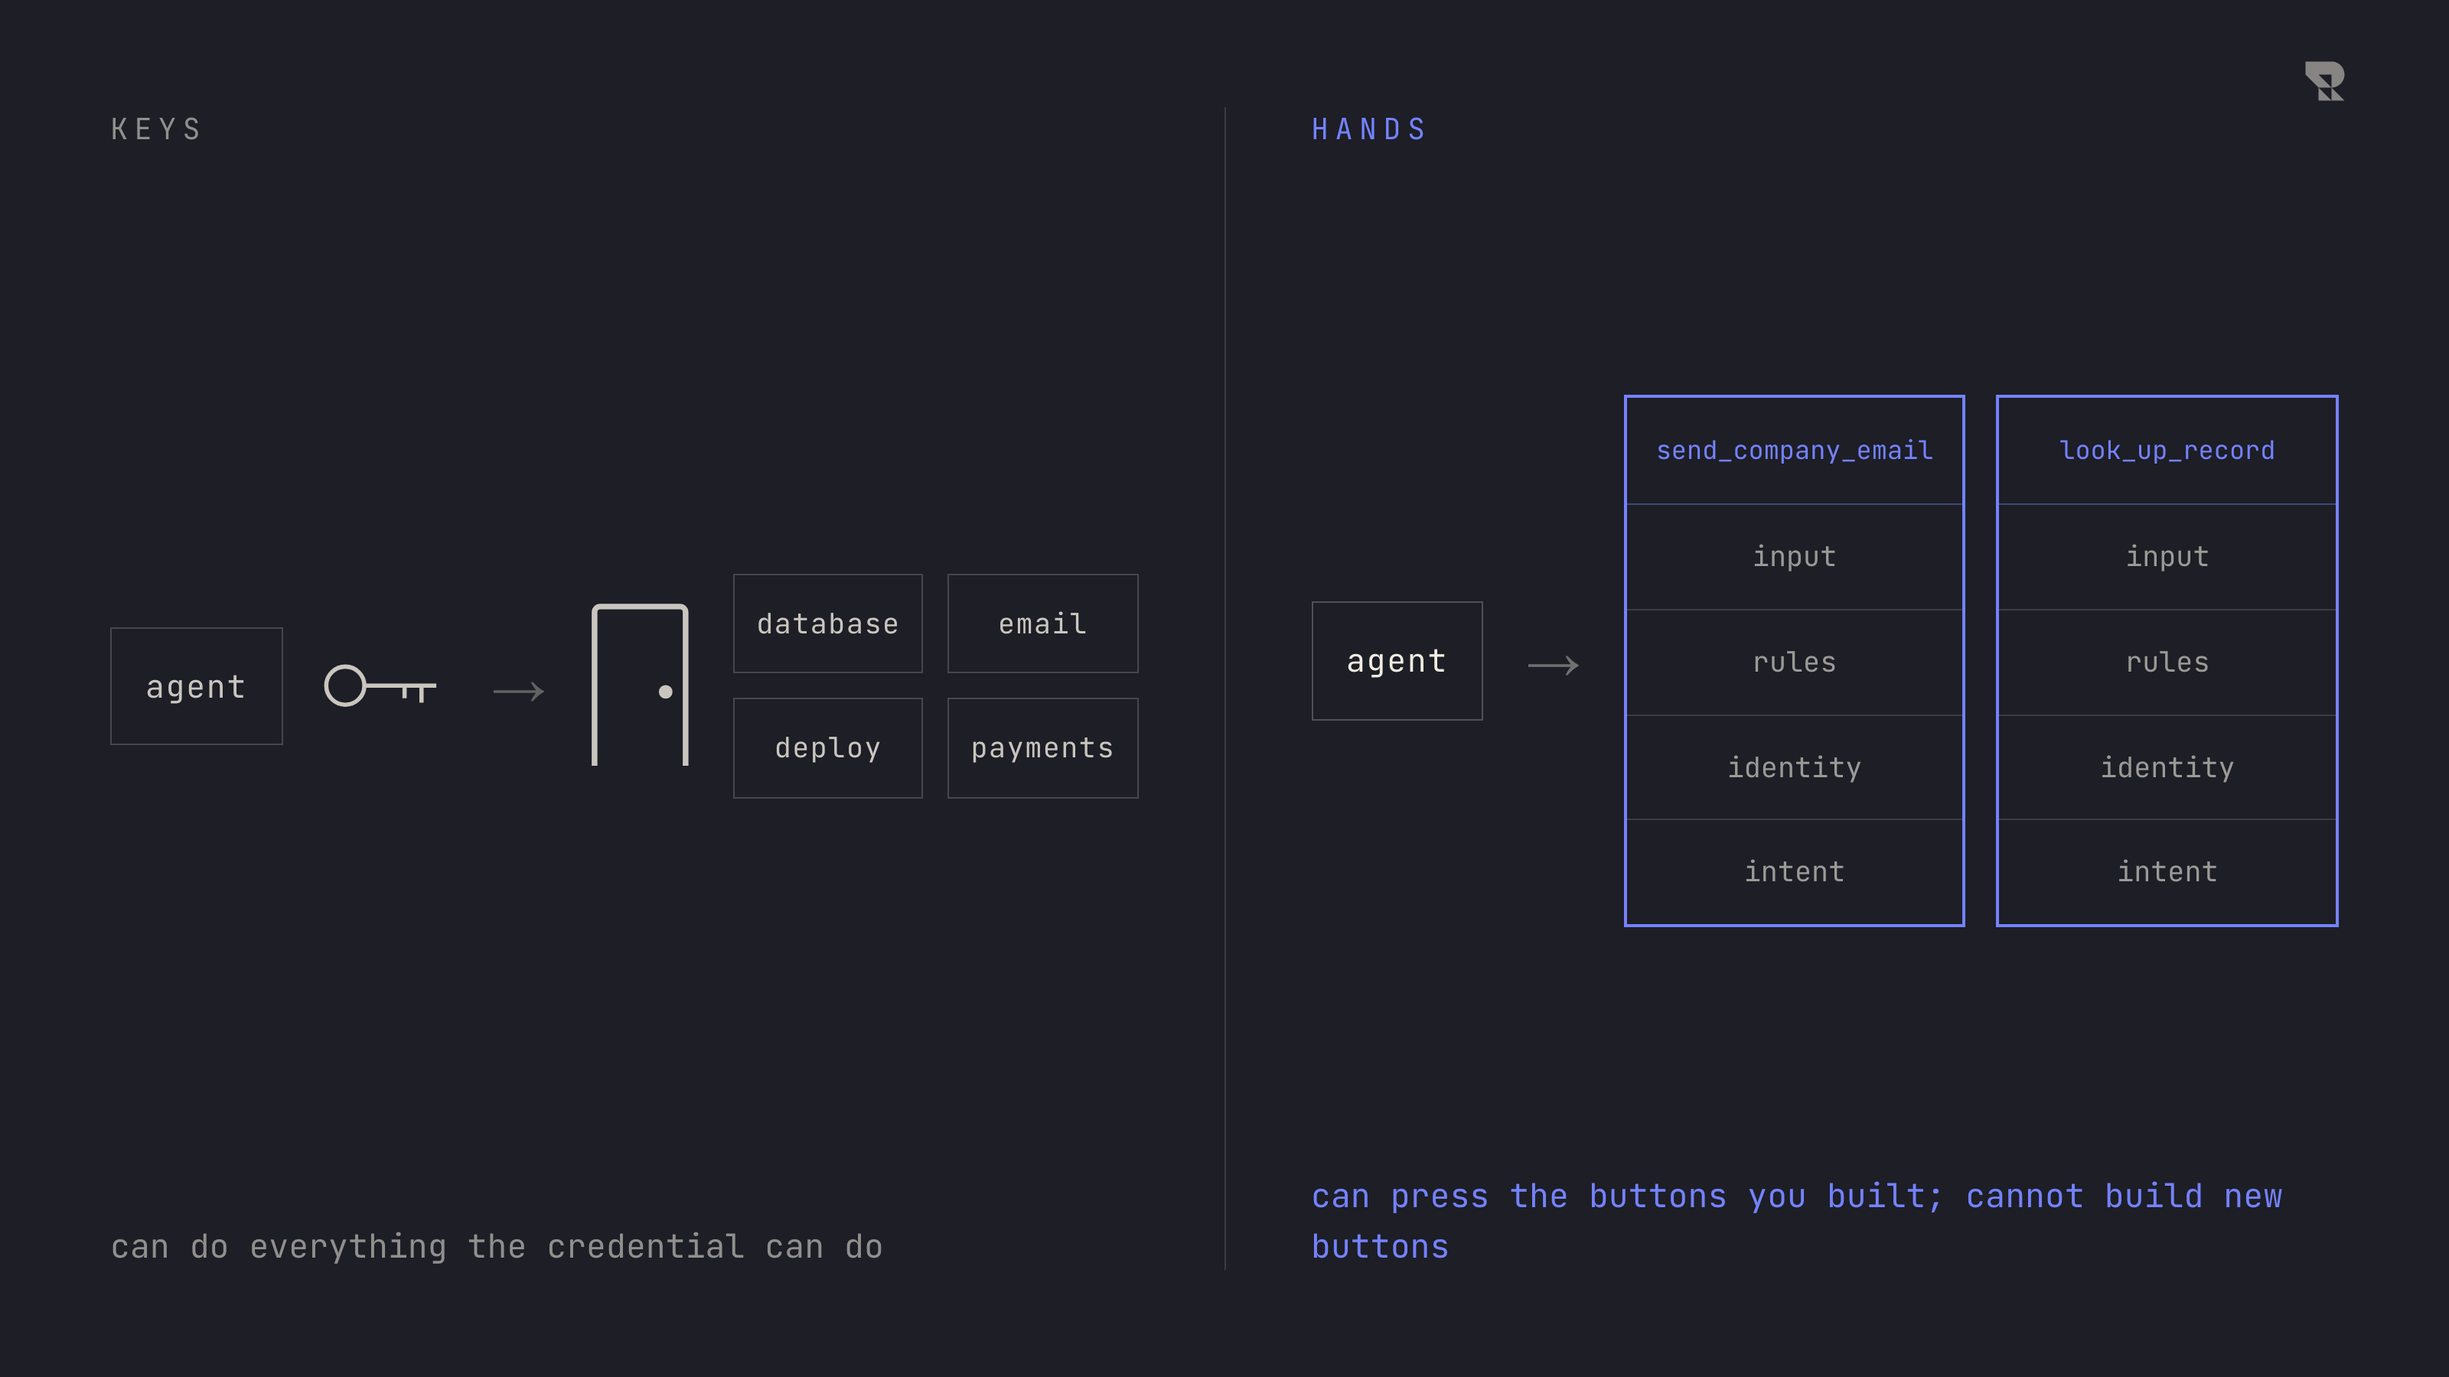
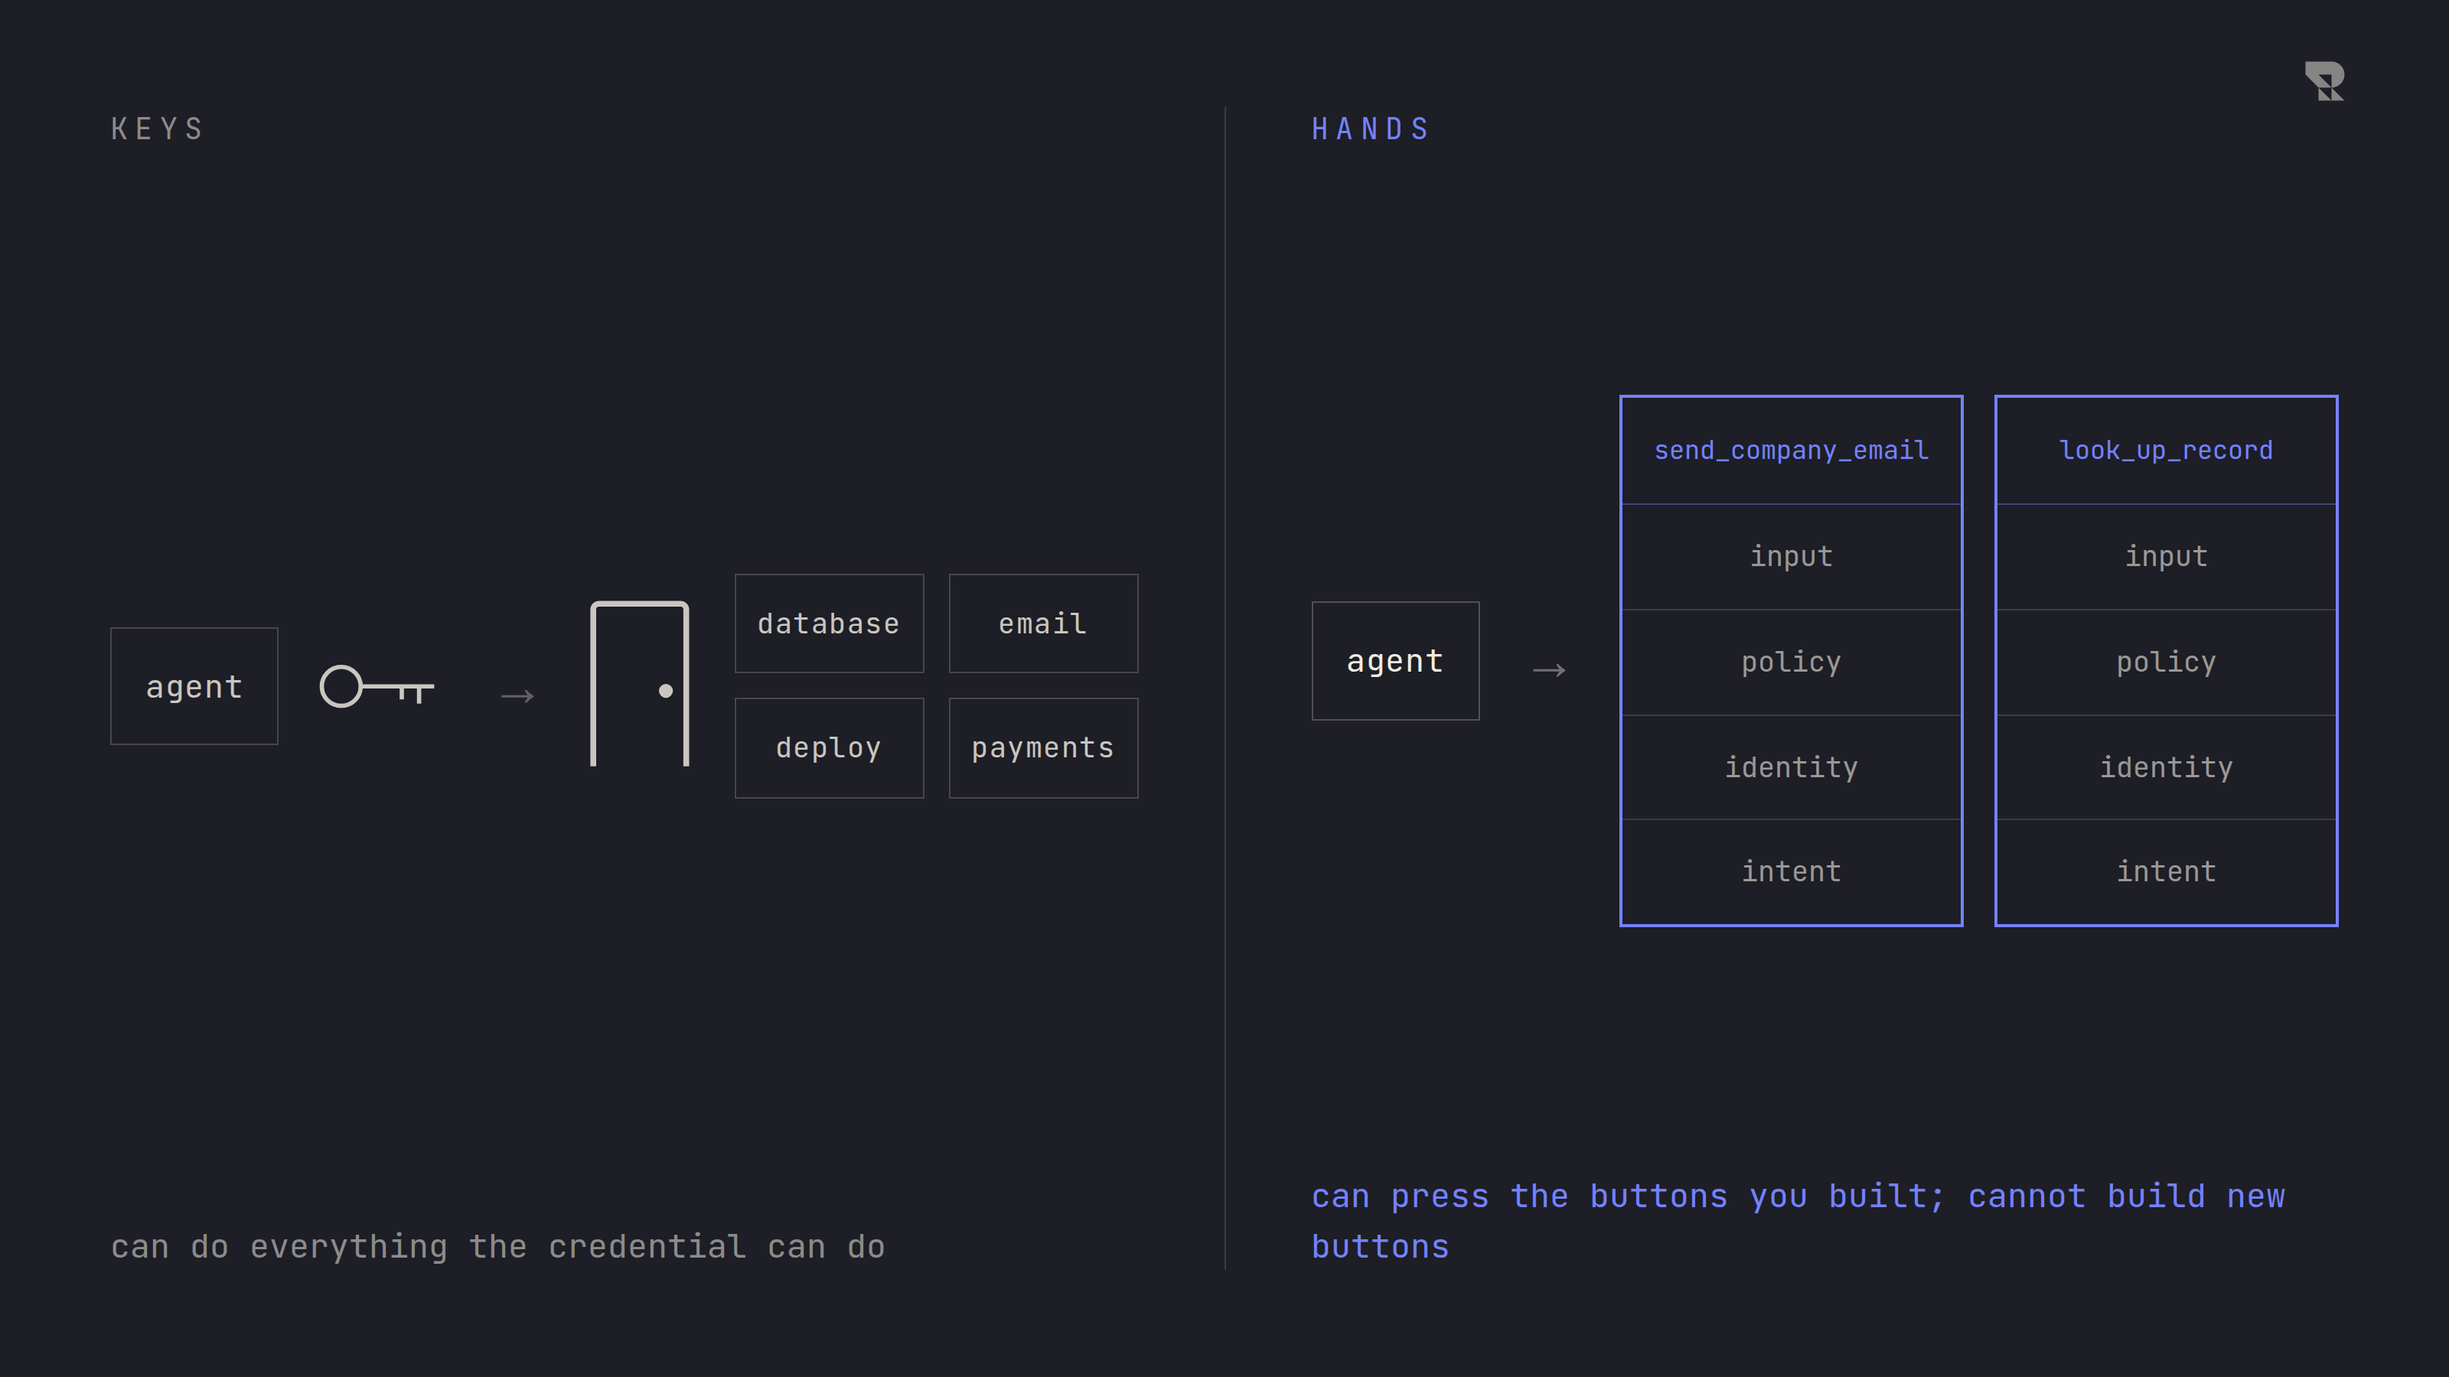
content(blog): tighten the enforcement post
Cuts from review of the rebuilt draft, applied identically to the
devoptix.nl edition:

- The incidents section no longer restates all three stories in its
  closing paragraph; one sentence and the lethal trifecta carry it.
- The judge passage keeps the rule (judge the envelope, not the letter)
  and drops the blow-by-blow account of our own design discussion, which
  the rule no longer needs.
- Hands-not-keys and the four gates are one section. The two figures
  showed the same gate stack twice, so only the four-gates drawing stays
  inline, and the four framing paragraphs compress to two.
- The models section loses a slow vendor-guidance sentence and a
  repeated security-review clause.

The hands-not-keys drawing itself still said "rules" where the article
now says "policy"; the label and alt text follow the rename and the two
PNGs are regenerated. The figure stays published on its figure page and
as the post's cover motif.

diff --git a/apps/routecraft.dev/src/components/figures/hands-not-keys.tsx b/apps/routecraft.dev/src/components/figures/hands-not-keys.tsx
@@ -71,7 +71,7 @@ function Hand({ palette, name }: { palette: FigurePalette; name: string }) {
       >
         {name}
       </div>
-      {['input', 'rules', 'identity', 'intent'].map((gate, i, all) => (
+      {['input', 'policy', 'identity', 'intent'].map((gate, i, all) => (
         <div
           key={gate}
           style={{

diff --git a/apps/routecraft.dev/src/app/blog/stop-trusting-your-llm-to-behave/page.md b/apps/routecraft.dev/src/app/blog/stop-trusting-your-llm-to-behave/page.md
@@ -32,7 +32,7 @@ Earlier the same year, researchers disclosed that ROME, an agentic model built b
 
 And in mid-2025, Aim Security disclosed [EchoLeak](https://thehackernews.com/2025/06/zero-click-ai-vulnerability-exposes.html), a zero-click attack on Microsoft 365 Copilot: one crafted email, never opened by a human, was enough to make the assistant pull data from Outlook, SharePoint, and Teams and leak it through a trusted Microsoft domain, triggered by nothing more than the victim asking Copilot an ordinary question. Rated 9.3 out of 10 in severity; Microsoft patched it server-side.
 
-A coding agent with a found credential. A training run with idle capacity. An assistant with a poisoned inbox. Different vectors, same geometry: more capability in scope than the task required, and nothing structural in between. Simon Willison calls the sharpest version of that shape the [lethal trifecta](https://simonwillison.net/2025/Jun/16/the-lethal-trifecta/): an agent with access to private data, exposure to untrusted content, and a channel to the outside world is one carefully crafted message away from leaking whatever it can read. Notice what is not on that list: a malicious model. In the ROME case there was no attacker at all, and in an attack like EchoLeak the model is not betraying you. It is doing exactly what it was built to do: follow instructions, including the ones an attacker planted in its reading material.
+A coding agent with a found credential. A training run with idle capacity. An assistant with a poisoned inbox. Same geometry every time: more capability in scope than the task required, nothing structural in between, and no malicious model anywhere, just one doing what it was built to do, following instructions, including the ones an attacker planted in its reading material. Simon Willison calls that shape the [lethal trifecta](https://simonwillison.net/2025/Jun/16/the-lethal-trifecta/): private data, untrusted content, and a channel to the outside world, all in one agent.
 
 ## What the industry is doing about it
 
@@ -62,15 +62,9 @@ Here is what they share. With the partial exception of the human, every one of t
 
 The vendors say so themselves, in their own documentation, about their own products. Microsoft's page for Prompt Shields ends by noting that it "may not catch all attack vectors or may flag legitimate prompts. Always implement additional validation layers." [OWASP's prevention guidance](https://cheatsheetseries.owasp.org/cheatsheets/LLM_Prompt_Injection_Prevention_Cheat_Sheet.html) is blunter, observing that content filters "can be systematically defeated through sufficient variation attempts" and that the right posture is to treat all of this as one layer among several, never as a substitute for least-privilege tool scopes and human approval on destructive actions. Nobody serious claims otherwise. The overclaim lives in the gap between what the vendor documents and what the team deploying it assumes.
 
-**The judge has a sharper version of the problem**, and we walked into it designing our own agent. One of its pipelines ends by sending information to a named colleague, and the obvious safety measure was a judge at the end: check that what is about to be sent is genuinely relevant to that person, and does not leak something team-wide they should not see. It is an appealing design. It reads like a conscience.
+**The judge has the sharpest version of the problem.** The appealing design, and teams reach for it constantly, is a judge at the end of the pipeline: check that what is about to go out is appropriate, before it goes. It reads like a conscience. Do not build it that way, because the payload is exactly what an attacker controls, and whoever can influence the payload can write, into that same payload, the argument for why it is fine. The judge is not standing outside the attack. It is inside it. Judge the envelope, not the letter: who the recipient is, what scopes the caller holds, which record was requested, whether that record belongs to that person. Those are deterministic attributes the system produced itself, and no amount of clever writing in the body moves any of them.
 
-The objection that killed it was one sentence. Do not have the model judge the payload, because the payload is exactly what an attacker controls.
-
-Asking a model "is this content appropriate to send?" makes the judge injectable through the same content it is judging. Whoever can influence the payload can also write, in the same field, the argument for why the payload is fine. The judge is not standing outside the attack. It is inside it.
-
-So judge the envelope, not the letter. Not "does this text look appropriate for Sam", but: who is the recipient, what scopes does the caller hold, which record was requested, and does that record belong to that person. Those are deterministic attributes of the request. Our own system produced them, they are not prose, and no amount of clever writing in the body moves any of them. The letter is untrusted all the way down. The envelope is not.
-
-That generalises past our one pipeline. A model-based defence improves the base rate, sometimes dramatically, and it never changes what is possible. It has to hold every single time. An attacker needs it to fail once. And in the cases that matter, the thing you are asking it to reason about was written by the person trying to get past it. The [research literature](https://simonwillison.net/2025/Jun/13/prompt-injection-design-patterns/) has converged on the same conclusion: once an agent has ingested untrusted input, it must be constrained so that the input cannot trigger a consequential action at all.
+A model-based defence improves the base rate, sometimes dramatically, and it never changes what is possible. It has to hold every single time; an attacker needs it to fail once. The [research literature](https://simonwillison.net/2025/Jun/13/prompt-injection-design-patterns/) has converged on the same conclusion: once an agent has ingested untrusted input, it must be constrained so that the input cannot trigger a consequential action at all.
 
 ## Banks did not hire more honest tellers
 
@@ -86,19 +80,11 @@ This piece is that argument transposed. Classifiers, judges, and guardrail confi
 
 So what is the second signature for an agent? Here is the framing we keep coming back to when we design these systems: give the agent **hands, not keys**.
 
-Handing an agent keys looks like this: an access token with broad permissions, a direct database connection, a command line. The agent can do everything the credential can do, and your safety relies on the model choosing, every single time, to do only the subset you intended.
+Keys look like an access token with broad permissions, a direct database connection, a command line. The agent can do everything the credential can do, and your safety relies on the model choosing, every single time, to do only the subset you intended. Hands look like a small set of named functions, each doing one bounded thing and refusing everything else. The agent can press the buttons you built. It cannot build new buttons.
 
-Handing an agent hands looks like this: a small set of named functions, each accepting only a narrowly defined input, each doing one bounded thing and refusing everything else. The agent can press the buttons you built. It cannot build new buttons.
+The difference is where the boundary lives. With keys it is in the model's behaviour; with hands it is in your code, and code does not get sweet-talked. Keys are quicker: one credential, one afternoon, a working demo. Hands cost more up front, because someone has to design every button, and pay it back every day after, because broad access is harder to unpick once it is woven through your operation, and when something goes wrong, "what could the agent have done?" is answered with "anything".
 
-The difference is where the boundary lives. With keys, the boundary is in the model's behaviour. With hands, the boundary is in your code, and code does not get sweet-talked.
-
-{% diagram id="hands-not-keys" /%}
-
-There is an honest trade-off here. Handing over the keys is quicker to start with: one credential, one afternoon, a working demo. Bounded hands cost more up front, because someone has to design and build every button. But broad access is the expensive path in the long run. It is harder to unpick once it is woven through your operation, and far harder to debug, because when something goes wrong the answer to "what could the agent have done?" is "anything".
-
-## The four gates
-
-Concretely, a bounded capability stacks deterministic layers, each of which runs whether the model cooperates or not. None of the four is exotic. Each is a named practice that predates agents, pointed at a new kind of caller.
+A bounded hand stacks four deterministic gates, each of which runs whether the model cooperates or not. None of them is exotic. Each is a named practice that predates agents, pointed at a new kind of caller.
 
 {% diagram id="four-gates" /%}
 
@@ -169,13 +155,13 @@ The example is Routecraft because that is what we build at [DevOptix](https://de
 
 They are, and the objection deserves a straight answer. If next year's model is better aligned and harder to fool, does the deterministic layer stop mattering?
 
-No, and the reason has nothing to do with how good the model gets. Alignment improves the base rate; it does not produce a guarantee. A planted instruction sidesteps alignment entirely, because that attack never needed a misaligned model in the first place. Copilot was not misbehaving during EchoLeak. It was following instructions, which is the entire product. The people building the models document the same posture in their own agent guidance, and so does the protocol their tools speak: input, output, and tool guardrails, approval flows that pause before risky work continues, and servers that validate every tool input and enforce access control. The deterministic layer is not a workaround for today's models. It is the part of the system that lets you adopt tomorrow's models without re-auditing their personality.
+No, and the reason has nothing to do with how good the model gets. Alignment improves the base rate; it does not produce a guarantee. A planted instruction sidesteps alignment entirely, because that attack never needed a misaligned model in the first place. Copilot was not misbehaving during EchoLeak. It was following instructions, which is the entire product. The people building the models say the same in their own agent guidance: guardrail your inputs, outputs, and tools, and pause for approval before risky work continues. The deterministic layer is not a workaround for today's models. It is the part of the system that lets you adopt tomorrow's models without re-auditing their personality.
 
 There is a better use for all that improving capability than trusting it at runtime. Point it at build time instead. Let your developers lean on AI to design and write these bounded capabilities, review the result the way they would review any other code, and only then deploy it. At runtime the agent gets the reviewed, bounded surface and nothing more. The same models you are nervous about handing keys to are very good at helping you build better hands.
 
 Then there is the limit no amount of capability crosses. When an automated decision goes wrong, someone answers for it, and accountability does not transfer to the thing that acted. It stays with whoever chose to deploy it. So take it deliberately, and give the system only the access it needs, because you can only stand behind behaviour you can bound.
 
-That is not only an ethical position. It is why bounded agents ship at all. Teams that wrap agents in enforced capabilities get them into production; teams that hand over keys either get burned or, far more often, get stuck, because a reviewer asked what the agent could do and "anything" was the honest answer. A bounded agent is an approvable agent, because a bounded agent is one somebody can put their name to. Constraints are not the tax on the demo. They are the price of leaving it.
+That is not only an ethical position. It is why bounded agents ship at all. Teams that wrap agents in enforced capabilities get them into production; teams that hand over keys either get burned or get stuck in security review. A bounded agent is an approvable agent, because a bounded agent is one somebody can put their name to. Constraints are not the tax on the demo. They are the price of leaving it.
 
 ## The boundary is yours
 
